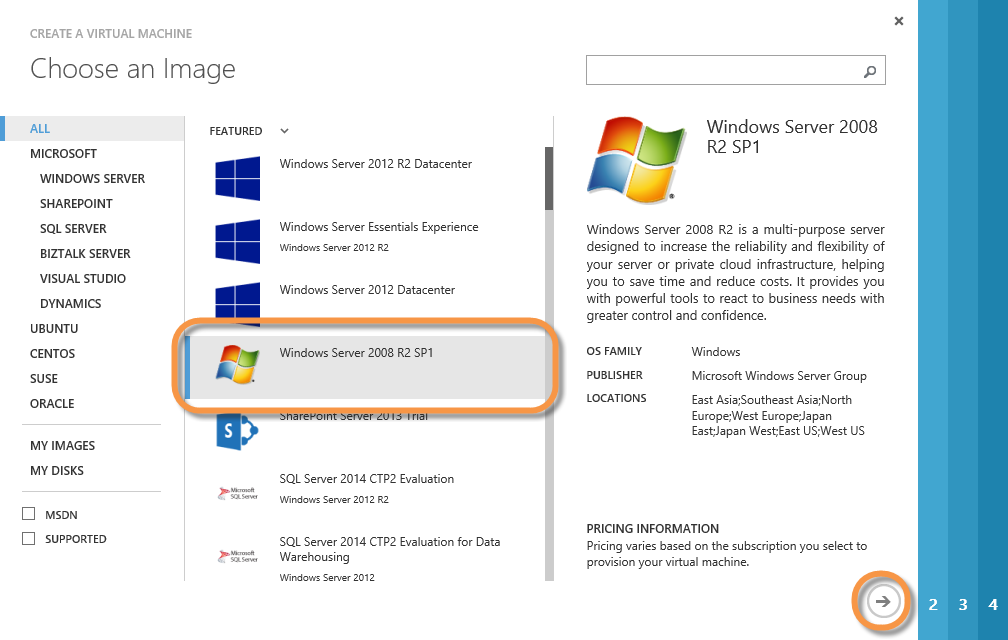
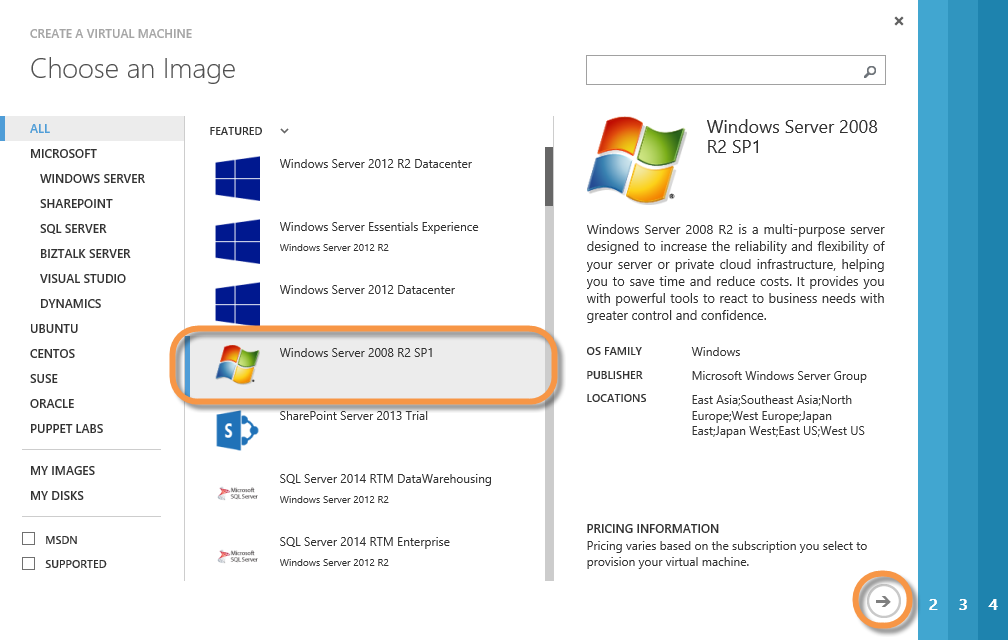
Revised for portal changes

diff --git a/Traditional/VMIntro/HOL.html b/Traditional/VMIntro/HOL.html
@@ -2,7 +2,7 @@
 <html>
 <head>
 <meta charset="utf-8" />
-<title>Markdown Preview</title>
+<title>Introduction to Windows Azure Virtual Machines</title>
 <style>
 body{font-family:helvetica, arial, freesans, clean, sans-serif;color:#333;line-height:1.6;font-size:14px}.markdown-body{line-height:1.6;font-size:14px}.markdown-body > *:first-child{margin-top:0 !important}.markdown-body > *:last-child{margin-bottom:0 !important}.markdown-body a.absent{color:#c00}.markdown-body h1{font-weight:700;-webkit-font-smoothing:antialiased;color:#000;font-size:28px;margin:20px 0 10px;padding:0}.markdown-body h2{font-weight:700;-webkit-font-smoothing:antialiased;color:#000;font-size:24px;border-bottom-color:#ccc;border-bottom-width:1px;border-bottom-style:solid;margin:20px 0 10px;padding:0}.markdown-body h3{font-weight:700;-webkit-font-smoothing:antialiased;font-size:18px;margin:20px 0 10px;padding:0}.markdown-body h4{font-weight:700;-webkit-font-smoothing:antialiased;font-size:16px;margin:20px 0 10px;padding:0}.markdown-body h5{font-weight:700;-webkit-font-smoothing:antialiased;font-size:14px;margin:20px 0 10px;padding:0}.markdown-body h6{font-weight:700;-webkit-font-smoothing:antialiased;color:#777;font-size:14px;margin:20px 0 10px;padding:0}.markdown-body blockquote{color:#777;border-left-color:#ddd;border-left-width:4px;border-left-style:solid;margin:15px 0;padding:0 15px}.markdown-body dl{margin:15px 0;padding:0}.markdown-body table{border-collapse:collapse;margin:15px 0;padding:0}.markdown-body pre{border-radius:3px;border:1px solid #ccc;line-height:19px;overflow:auto;font-size:13px;background-color:#f8f8f8;margin:15px 0;padding:6px 10px}.markdown-body li p.first{display:inline-block}.markdown-body dl dt{font-size:14px;font-style:italic;font-weight:700;margin:15px 0 5px;padding:0}.markdown-body dl dt:first-child{padding:0}.markdown-body dl dd{margin:0 0 15px;padding:0 15px}.markdown-body table tr{border-top-color:#ccc;border-top-width:1px;border-top-style:solid;background-color:#fff;margin:0;padding:0}.markdown-body table tr:nth-child(2n){background-color:#f8f8f8}.markdown-body img{max-width:100%}.markdown-body span.frame{overflow:hidden;display:block}.markdown-body span.frame > span{border:1px solid #ddd;width:auto;overflow:hidden;float:left;display:block;margin:13px 0 0;padding:7px}.markdown-body span.frame span img{float:left;display:block}.markdown-body span.frame span span{color:#333;clear:both;display:block;padding:5px 0 0}.markdown-body span.align-center > span{text-align:center;overflow:hidden;display:block;margin:13px auto 0}.markdown-body span.align-center span img{text-align:center;margin:0 auto}.markdown-body span.align-right > span{text-align:right;overflow:hidden;display:block;margin:13px 0 0}.markdown-body span.align-right span img{text-align:right;margin:0}.markdown-body span.float-left{overflow:hidden;margin-right:13px;float:left;display:block}.markdown-body span.float-left span{margin:13px 0 0}.markdown-body span.float-right{overflow:hidden;margin-left:13px;float:right;display:block}.markdown-body span.float-right > span{text-align:right;overflow:hidden;display:block;margin:13px auto 0}.markdown-body pre > code{border:currentColor;white-space:pre;margin:0;padding:0}.markdown-body .highlight pre{border-radius:3px;border:1px solid #ccc;line-height:19px;overflow:auto;font-size:13px;background-color:#f8f8f8;padding:6px 10px}.markdown-body p,.markdown-body li{margin:15px 0}.markdown-body ul,.markdown-body ol{padding-left:30px;margin:15px 0}.markdown-body > h2:first-child,.markdown-body > h1:first-child,.markdown-body > h1:first-child + h2{border:0 currentColor;padding-top:0;margin-top:0}.markdown-body > h3:first-child,.markdown-body > h4:first-child,.markdown-body > h5:first-child,.markdown-body > h6:first-child{padding-top:0;margin-top:0}.markdown-body h1 + p,.markdown-body h2 + p,.markdown-body h3 + p,.markdown-body h4 + p,.markdown-body h5 + p,.markdown-body h6 + p,.markdown-body ul li > :first-child,.markdown-body ol li > :first-child,.markdown-body dl dt > :first-child,.markdown-body dl dd > :first-child,.markdown-body blockquote > :first-child,.markdown-body table tr th > :first-child,.markdown-body table tr td > :first-child{margin-top:0}.markdown-body ul li > :last-child,.markdown-body ol li > :last-child,.markdown-body dl dt > :last-child,.markdown-body dl dd > :last-child,.markdown-body blockquote > :last-child,.markdown-body table tr th > :last-child,.markdown-body table tr td > :last-child{margin-bottom:0}.markdown-body table tr th,.markdown-body table tr td{border:1px solid #ccc;text-align:left;margin:0;padding:6px 13px}.markdown-body span.align-center,.markdown-body span.align-right{overflow:hidden;clear:both;display:block}.markdown-body code,.markdown-body tt{border-radius:3px;border:1px solid #eaeaea;white-space:nowrap;background-color:#f8f8f8;margin:0 2px;padding:0 5px}.markdown-body pre code,.markdown-body pre tt{border:currentColor;background-color:transparent}span.codelanguage{display:none}
 </style>
@@ -106,7 +106,8 @@ body{font-family:helvetica, arial, freesans, clean, sans-serif;color:#333;line-h
 <ul>
 <li>VERSION RELEASE DATE: <strong><em>Choose the latest date</em></strong></li>
 <li>VIRTUAL MACHINE NAME: <strong><em>sqlvm1</em></strong> (Use this name.  using a different name will cause issues later in the lab).</li>
-<li>SIZE: <strong><em>Small (1 core, 1.75 GB memory)</em></strong> (You don't need anything bigger for this lab)</li>
+<li>TIER: <strong><em>Standard</em></strong></li>
+<li>SIZE: <strong><em>A1 (1 core, 1.75 GB memory)</em></strong> (You don't need anything bigger for this lab)</li>
 <li>NEW USER NAME: <strong><em>CloudShop</em></strong></li>
 <li>NEW PASSWORD:  <strong><em>Azure$123</em></strong></li>
 </ul>
@@ -124,6 +125,7 @@ The name CloudShopDemo is used as a sample throughout this lab, but you will nee
 <li>REGION/AFFINITY GROUP/VIRTUAL NETWORK: <strong><em>Pick a region close to you</em></strong></li>
 <li>STORAGE ACCOUNT: <strong><em>Use an automatically generated storage account</em></strong></li>
 <li>AVAILABILITY SET: <strong><em>(None)</em></strong></li>
+<li>ENDPOINTS: <strong><em>Leave the default endpoints.</em></strong></li>
 </ul>
 
 <p><img src="images/1060vmconfig2.png?raw=true" alt="1060VMConfig2" title="Virtual Machine Configuration">
@@ -153,16 +155,16 @@ The name CloudShopDemo is used as a sample throughout this lab, but you will nee
 
 <p><img src="images/1090newvmfromgallery.png?raw=true" alt="1090NewVMFromGallery" title="New VM From Gallery">
 </p></li>
-<li><p>In the <strong>&quot;CREATE A VIRTUAL MACHINE&quot;</strong> wizard, on the <strong>&quot;Choose an Image&quot;</strong> page, select the <strong>&quot;Windows Server 2008 R2 SP1&quot;</strong> image and click the next (arrow) button to continue:</p>
-
-<p><img src="images/1100win2k8vmimage.png?raw=true" alt="1100Win2K8VMImage" title="Windows Server 2008 R2 SP1 Image">
+<li><p>In the <strong>&quot;CREATE A VIRTUAL MACHINE&quot;</strong> wizard, on the <strong>&quot;Choose an Image&quot;</strong> page, select the <strong>&quot;Windows Server 2008 R2 SP1&quot;</strong> image and click the next (arrow) button to continue:
+<img src="images/1100win2k8vmimage.png?raw=true" alt="1100Win2K8VMImage" title="Windows Server 2008 R2 SP1 Image">
 </p></li>
 <li><p>On the first <strong>&quot;Virtual machine configuration&quot;</strong> page:</p>
 
 <ul>
 <li>VERSION RELEASE DATE: <strong><em>Choose the latest date</em></strong></li>
 <li>VIRTUAL MACHINE NAME: <strong><em>iisvm1</em></strong> for the first vm, <strong><em>iisvm2</em></strong> for the second</li>
-<li>SIZE: <strong><em>Small 1 core, 1.75 GB memory)</em></strong></li>
+<li>TIER: <strong><em>Standard</em></strong></li>
+<li>SIZE: <strong><em>A1 (1 core, 1.75 GB memory)</em></strong></li>
 <li>NEW USER NAME: <strong><em>CloudShop</em></strong> (or the same name you used for <strong><em>sqlvm1</em></strong>)</li>
 <li>NEW PASSWORD: <strong><em>Azure$123</em></strong> (or the same password you used for <strong><em>sqlvm1</em></strong>)</li>
 </ul>
@@ -182,12 +184,15 @@ The name CloudShopDemo is used as a sample throughout this lab, but you will nee
 
 <p><img src="images/1130vmconfig3.png?raw=true" alt="1130VMConfig3" title="Virtual Machine Configuration Page 3">
 </p></li>
-<li><p>After creating <strong>iisvm1</strong> (and waiting 1-2 minutes to continue) then repeat the steps above to create <strong>iisvm2</strong></p></li>
+<li><p>After creating <strong>iisvm1</strong> (and waiting 1-2 minutes to continue) then 
+<strong>repeat the steps above to create <em>iisvm2</em></strong></p></li>
 <li><p>Once all three virtual machines have been created, <strong>wait until at least the sqlvm1 status reads &quot;Running&quot;</strong> before proceeding to the next task.  <strong>This could take anywhere from 10-30 minutes</strong>.  Now is a good time to take a break! </p>
 
 <p><img src="images/1140vmsrunning.png?raw=true" alt="1140VMsRunning" title="Virtual Machines Running">
 </p></li>
 </ol>
+
+<hr>
 
 <p><a name="Ex2"></a></p>
 
@@ -214,7 +219,7 @@ The name CloudShopDemo is used as a sample throughout this lab, but you will nee
 <ol>
 <li><p>In the Windows Azure Management Portal, on the &quot;VIRTUAL MACHINES&quot; page, click on the name of the &quot;sqlvm1&quot; virtual machine, then switch to it's DASHBOARD page. Scroll to the bottom to see that there is only a single drive attached to the VM.</p>
 
-<p><img src="images/2012sqlvm1drive.png?raw=true" alt="2012SQLVM1Drive" title="SQLVM1 Drive">
+<p><img src="images/2013sqlvm1drive2.png?raw=true" alt="2013SQLVM1Drive2" title="SQLVM1 Drives">
 </p></li>
 <li><p>Click the <strong>&quot;ATTACH&quot;</strong> button along the bottom, and select <strong>&quot;Attach empty disk&quot;</strong>:</p>
 
@@ -302,7 +307,7 @@ The name CloudShopDemo is used as a sample throughout this lab, but you will nee
 
 <p><img src="images/2170newlyformatteddrives.png?raw=true" alt="2170NewlyFormattedDrives" title="Newly Formatted Drives">
 </p></li>
-<li><p>In the open the new drives in Windows Explorer and create the following folders.  Later, we will configure SQL Server to use these new folders rather than the default folders on the C: Drive:</p>
+<li><p>In the open the new drives in Windows Explorer and <strong><em>create the following folders</em></strong>.  Later, we will configure SQL Server to use these new folders rather than the default folders on the C: Drive:</p>
 
 <ul>
 <li><strong>F:\Data</strong></li>
@@ -337,7 +342,7 @@ The name CloudShopDemo is used as a sample throughout this lab, but you will nee
 
 <p><img src="images/2220startssms.png?raw=true" alt="2220StartSSMS" title="Start SSMS">
 </p></li>
-<li><p>When prompted, connect to the SQLVM1 instance:</p>
+<li><p>When prompted, connect to the <strong>SQLVM1</strong> instance:</p>
 
 <p><img src="images/2230connecttosqlmv1.png?raw=true" alt="2230ConnectToSQLMV1" title="Connect to SQLVM1">
 </p></li>
@@ -439,7 +444,7 @@ The name CloudShopDemo is used as a sample throughout this lab, but you will nee
 
 <p><img src="images/2360cloudshoplogin.png?raw=true" alt="2360CloudShopLogin" title="CloudShop Login">
 </p></li>
-<li><p>Make sure that you clicked <strong>&quot;OK&quot;</strong> above to create the new login, then immediately double click on the new login to re-open the Login properties.  Then, switch to the <strong>&quot;User Mapping&quot;</strong> page:</p>
+<li><p>Make sure that you clicked <strong>&quot;OK&quot;</strong> above to create the new <strong>CloudShop</strong> (<strong>Not</strong> the <strong>SQLVM1\CloudShop</strong> login, those are actually different logins) login, then immediately double click on the new login to re-open the Login properties.  Then, switch to the <strong>&quot;User Mapping&quot;</strong> page:</p>
 
 <ul>
 <li><strong>Turn on</strong> the checkbox next to the <strong>AdventureWorks2012</strong> database</li>
@@ -447,7 +452,7 @@ The name CloudShopDemo is used as a sample throughout this lab, but you will nee
 <li>Click <strong>&quot;OK&quot;</strong></li>
 </ul>
 
-<p><img src="images/2270mapuser.png?raw=true" alt="2370MapUser" title="Map User">
+<p><img src="images/2370mapuser.png?raw=true" alt="2370MapUser" title="Map User">
 </p>
 <blockquote>
 <p><strong>Note:</strong> There is a glitch in SQL Server Management Studio right now where it can't assign database roles to the user until the login exists.  That is why you had to exit the login properties and re-enter it again to map the login to a user account in the database.</p>
@@ -497,6 +502,8 @@ The name CloudShopDemo is used as a sample throughout this lab, but you will nee
 <li><p>You can close <strong>&quot;Sever Manager&quot;</strong> when you are done.</p></li>
 <li><p>You can close the Remote Desktop Connection to SQLVM1 when you are done if you wish, but make sure to just disconnect, don't shut down the SQLVM1 server.  </p></li>
 </ol>
+
+<hr>
 
 <p><a name="Ex3"></a></p>
 
@@ -659,11 +666,11 @@ The name CloudShopDemo is used as a sample throughout this lab, but you will nee
 
 <p><img src="images/3280editconnectionstrings.png?raw=true" alt="3280EditConnectionStrings" title="Edit the Connection Strings">
 </p></li>
-<li><p>Edit <strong>both</strong> the <strong>&quot;AdventureWorksEntities&quot;</strong> and <strong>&quot;DefaultConnection&quot;</strong> connection strings.  Replace the <strong>&quot;[ENTER YOUR SQL SERVER NAME]&quot;</strong> placeholders (including the square brackets) with <strong><em>sqlvm1</em></strong>  (or the name you gave to your SQL VM if you used something different).  Click <strong>&quot;OK&quot;</strong> When you are done.</p>
+<li><p>Edit <strong>both</strong> the <strong>&quot;AdventureWorksEntities&quot;</strong> and <strong>&quot;DefaultConnection&quot;</strong> connection strings (The <strong>&quot;LocalSqlServer&quot;</strong> connection isn't used by the web site).  Replace the <strong>&quot;[ENTER YOUR SQL SERVER NAME]&quot;</strong> placeholders (including the square brackets) with <strong><em>sqlvm1</em></strong>  (or the name you gave to your SQL VM if you used something different).  Click <strong>&quot;OK&quot;</strong> When you are done.</p>
 
 <p><img src="images/3290entersqlvm1name.png?raw=true" alt="3290EnterSQLVM1Name" title="Enter SQLVM1 Server Name">
 </p></li>
-<li><p>Close the *<em>&quot;Internet Information Services (IIS) Manager</em>&quot;&quot; window when you are done. </p></li>
+<li><p>Close the <strong>&quot;Internet Information Services (IIS) Manager&quot;</strong> window when you are done. </p></li>
 <li><p>You can test the website on the VM itself by opening IE on the web server VM and navigating to http://localhost/CloudShop.  It should load successfully.  Close the browser when you are done.</p>
 
 <p><img src="images/3300testingcloudshoponwebvm.png?raw=true" alt="3300TestingCloudShopOnWebVM" title="TestingCloudShoponWebVM">

diff --git a/Scenario/0-OPTIONAL-SetupDevVM/HOL.html b/Scenario/0-OPTIONAL-SetupDevVM/HOL.html
@@ -1,8 +1,8 @@
-<!DOCTYPE html>
+<!DOCTYPE html>
 <html>
 <head>
 <meta charset="utf-8" />
-<title>Markdown Preview</title>
+<title>Setting up an Azure Virtual Machine For Developers with Visual Studio 2013 Ultimate and SQL Server 2012 Express</title>
 <style>
 body{font-family:helvetica, arial, freesans, clean, sans-serif;color:#333;line-height:1.6;font-size:14px}.markdown-body{line-height:1.6;font-size:14px}.markdown-body > *:first-child{margin-top:0 !important}.markdown-body > *:last-child{margin-bottom:0 !important}.markdown-body a.absent{color:#c00}.markdown-body h1{font-weight:700;-webkit-font-smoothing:antialiased;color:#000;font-size:28px;margin:20px 0 10px;padding:0}.markdown-body h2{font-weight:700;-webkit-font-smoothing:antialiased;color:#000;font-size:24px;border-bottom-color:#ccc;border-bottom-width:1px;border-bottom-style:solid;margin:20px 0 10px;padding:0}.markdown-body h3{font-weight:700;-webkit-font-smoothing:antialiased;font-size:18px;margin:20px 0 10px;padding:0}.markdown-body h4{font-weight:700;-webkit-font-smoothing:antialiased;font-size:16px;margin:20px 0 10px;padding:0}.markdown-body h5{font-weight:700;-webkit-font-smoothing:antialiased;font-size:14px;margin:20px 0 10px;padding:0}.markdown-body h6{font-weight:700;-webkit-font-smoothing:antialiased;color:#777;font-size:14px;margin:20px 0 10px;padding:0}.markdown-body blockquote{color:#777;border-left-color:#ddd;border-left-width:4px;border-left-style:solid;margin:15px 0;padding:0 15px}.markdown-body dl{margin:15px 0;padding:0}.markdown-body table{border-collapse:collapse;margin:15px 0;padding:0}.markdown-body pre{border-radius:3px;border:1px solid #ccc;line-height:19px;overflow:auto;font-size:13px;background-color:#f8f8f8;margin:15px 0;padding:6px 10px}.markdown-body li p.first{display:inline-block}.markdown-body dl dt{font-size:14px;font-style:italic;font-weight:700;margin:15px 0 5px;padding:0}.markdown-body dl dt:first-child{padding:0}.markdown-body dl dd{margin:0 0 15px;padding:0 15px}.markdown-body table tr{border-top-color:#ccc;border-top-width:1px;border-top-style:solid;background-color:#fff;margin:0;padding:0}.markdown-body table tr:nth-child(2n){background-color:#f8f8f8}.markdown-body img{max-width:100%}.markdown-body span.frame{overflow:hidden;display:block}.markdown-body span.frame > span{border:1px solid #ddd;width:auto;overflow:hidden;float:left;display:block;margin:13px 0 0;padding:7px}.markdown-body span.frame span img{float:left;display:block}.markdown-body span.frame span span{color:#333;clear:both;display:block;padding:5px 0 0}.markdown-body span.align-center > span{text-align:center;overflow:hidden;display:block;margin:13px auto 0}.markdown-body span.align-center span img{text-align:center;margin:0 auto}.markdown-body span.align-right > span{text-align:right;overflow:hidden;display:block;margin:13px 0 0}.markdown-body span.align-right span img{text-align:right;margin:0}.markdown-body span.float-left{overflow:hidden;margin-right:13px;float:left;display:block}.markdown-body span.float-left span{margin:13px 0 0}.markdown-body span.float-right{overflow:hidden;margin-left:13px;float:right;display:block}.markdown-body span.float-right > span{text-align:right;overflow:hidden;display:block;margin:13px auto 0}.markdown-body pre > code{border:currentColor;white-space:pre;margin:0;padding:0}.markdown-body .highlight pre{border-radius:3px;border:1px solid #ccc;line-height:19px;overflow:auto;font-size:13px;background-color:#f8f8f8;padding:6px 10px}.markdown-body p,.markdown-body li{margin:15px 0}.markdown-body ul,.markdown-body ol{padding-left:30px;margin:15px 0}.markdown-body > h2:first-child,.markdown-body > h1:first-child,.markdown-body > h1:first-child + h2{border:0 currentColor;padding-top:0;margin-top:0}.markdown-body > h3:first-child,.markdown-body > h4:first-child,.markdown-body > h5:first-child,.markdown-body > h6:first-child{padding-top:0;margin-top:0}.markdown-body h1 + p,.markdown-body h2 + p,.markdown-body h3 + p,.markdown-body h4 + p,.markdown-body h5 + p,.markdown-body h6 + p,.markdown-body ul li > :first-child,.markdown-body ol li > :first-child,.markdown-body dl dt > :first-child,.markdown-body dl dd > :first-child,.markdown-body blockquote > :first-child,.markdown-body table tr th > :first-child,.markdown-body table tr td > :first-child{margin-top:0}.markdown-body ul li > :last-child,.markdown-body ol li > :last-child,.markdown-body dl dt > :last-child,.markdown-body dl dd > :last-child,.markdown-body blockquote > :last-child,.markdown-body table tr th > :last-child,.markdown-body table tr td > :last-child{margin-bottom:0}.markdown-body table tr th,.markdown-body table tr td{border:1px solid #ccc;text-align:left;margin:0;padding:6px 13px}.markdown-body span.align-center,.markdown-body span.align-right{overflow:hidden;clear:both;display:block}.markdown-body code,.markdown-body tt{border-radius:3px;border:1px solid #eaeaea;white-space:nowrap;background-color:#f8f8f8;margin:0 2px;padding:0 5px}.markdown-body pre code,.markdown-body pre tt{border:currentColor;background-color:transparent}span.codelanguage{display:none}
 </style>

diff --git a/Traditional/VMIntro/HOL.md b/Traditional/VMIntro/HOL.md
@@ -76,7 +76,8 @@ The highlighted portion of the following diagram shows what you will configure i
 1. On the "Virtual machine configuration" page:
 	- VERSION RELEASE DATE: ***Choose the latest date***
 	- VIRTUAL MACHINE NAME: ***sqlvm1*** (Use this name.  using a different name will cause issues later in the lab).
-	- SIZE: ***Small (1 core, 1.75 GB memory)*** (You don't need anything bigger for this lab)
+	- TIER: ***Standard***
+	- SIZE: ***A1 (1 core, 1.75 GB memory)*** (You don't need anything bigger for this lab)
 	- NEW USER NAME: ***CloudShop***
 	- NEW PASSWORD:  ***Azure$123***
 
@@ -91,12 +92,14 @@ The highlighted portion of the following diagram shows what you will configure i
 	- REGION/AFFINITY GROUP/VIRTUAL NETWORK: ***Pick a region close to you***
 	- STORAGE ACCOUNT: ***Use an automatically generated storage account***
 	- AVAILABILITY SET: ***(None)***
+	- ENDPOINTS: ***Leave the default endpoints.***
 
 	![1060VMConfig2](images/1060vmconfig2.png?raw=true "Virtual Machine Configuration")
 
 1. On the third final **"Virtual machine configuration"** page, accept the default values and click the "Check Mark" button in the lower right corner to complete the wizard.
 
 	![1070VMConfig3](images/1070vmconfig3.png?raw=true "Virtual Machine Configuration Page 3")
+
 
 	> **Note:** The Virtual Machine already has endpoints for Remote Desktop connections as well as for remote PowerShell scripts.  
 
@@ -116,13 +119,13 @@ In this task, you will create BOTH of the Web Server Virtual Machines, **iisvm1*
 	![1090NewVMFromGallery](images/1090newvmfromgallery.png?raw=true "New VM From Gallery")
 
 1. In the **"CREATE A VIRTUAL MACHINE"** wizard, on the **"Choose an Image"** page, select the **"Windows Server 2008 R2 SP1"** image and click the next (arrow) button to continue:
-
 	![1100Win2K8VMImage](images/1100win2k8vmimage.png?raw=true "Windows Server 2008 R2 SP1 Image")
 
 1. On the first **"Virtual machine configuration"** page:
 	- VERSION RELEASE DATE: ***Choose the latest date***
 	- VIRTUAL MACHINE NAME: ***iisvm1*** for the first vm, ***iisvm2*** for the second
-	- SIZE: ***Small 1 core, 1.75 GB memory)***
+	- TIER: ***Standard***
+	- SIZE: ***A1 (1 core, 1.75 GB memory)***
 	- NEW USER NAME: ***CloudShop*** (or the same name you used for ***sqlvm1***)
 	- NEW PASSWORD:	***Azure$123*** (or the same password you used for ***sqlvm1***)
 
@@ -134,15 +137,19 @@ In this task, you will create BOTH of the Web Server Virtual Machines, **iisvm1*
 
 	![1120VMConfig2](images/1120vmconfig2.png?raw=true "Virtual Machine Configuration Page 2")
 
+
 1. On the third and final **"Virtual machine configuration"** page, leave the default values and click the "Check Mark" button in the lower right corner to complete the wizard.  
 
 	![1130VMConfig3](images/1130vmconfig3.png?raw=true "Virtual Machine Configuration Page 3")
 
-1. After creating **iisvm1** (and waiting 1-2 minutes to continue) then repeat the steps above to create **iisvm2**
+1. After creating **iisvm1** (and waiting 1-2 minutes to continue) then 
+**repeat the steps above to create _iisvm2_**
 
 1. Once all three virtual machines have been created, **wait until at least the sqlvm1 status reads "Running"** before proceeding to the next task.  **This could take anywhere from 10-30 minutes**.  Now is a good time to take a break! 
 
 	![1140VMsRunning](images/1140vmsrunning.png?raw=true "Virtual Machines Running")
+
+---
 
 <a name="Ex2"></a>
 ### Exercise 2: Configure the SQL Server Virtual Machine and Database ###
@@ -163,11 +170,12 @@ The highlighted portion of the following diagram shows what you will configure i
 
 1. In the Windows Azure Management Portal, on the "VIRTUAL MACHINES" page, click on the name of the "sqlvm1" virtual machine, then switch to it's DASHBOARD page. Scroll to the bottom to see that there is only a single drive attached to the VM.
 
-	![2012SQLVM1Drive](images/2012sqlvm1drive.png?raw=true "SQLVM1 Drive")
+	![2013SQLVM1Drive2](images/2013sqlvm1drive2.png?raw=true "SQLVM1 Drives")
 
 1. Click the **"ATTACH"** button along the bottom, and select **"Attach empty disk"**:
 
 	![2014AttachEmptyDisk](images/2014attachemptydisk.png?raw=true "Attach Empty Disk")
+
 
 1. In the "Attach an empty disk..." window, you don't need to change anything except the size.  Enter **50** for the **SIZE (GB)**:
 
@@ -251,7 +259,7 @@ The highlighted portion of the following diagram shows what you will configure i
 
 	![2170NewlyFormattedDrives](images/2170newlyformatteddrives.png?raw=true "Newly Formatted Drives")
 
-1. In the open the new drives in Windows Explorer and create the following folders.  Later, we will configure SQL Server to use these new folders rather than the default folders on the C: Drive:
+1. In the open the new drives in Windows Explorer and ***create the following folders***.  Later, we will configure SQL Server to use these new folders rather than the default folders on the C: Drive:
 	
 	- **F:\Data**
 	- **G:\Logs**
@@ -280,7 +288,7 @@ In this task, we'll download the AdventureWorks2012 Database file from CodePlex 
 
 	![2220StartSSMS](images/2220startssms.png?raw=true "Start SSMS")
 
-1. When prompted, connect to the SQLVM1 instance:
+1. When prompted, connect to the **SQLVM1** instance:
 
 	![2230ConnectToSQLMV1](images/2230connecttosqlmv1.png?raw=true "Connect to SQLVM1")
 
@@ -377,13 +385,14 @@ The websites are pre-configured to connect to the SQL Server instance using a SQ
 
 	![2360CloudShopLogin](images/2360cloudshoplogin.png?raw=true "CloudShop Login")
 
-1. Make sure that you clicked **"OK"** above to create the new login, then immediately double click on the new login to re-open the Login properties.  Then, switch to the **"User Mapping"** page:
+1. Make sure that you clicked **"OK"** above to create the new **CloudShop** (**Not** the **SQLVM1\CloudShop** login, those are actually different logins) login, then immediately double click on the new login to re-open the Login properties.  Then, switch to the **"User Mapping"** page:
 
 	- **Turn on** the checkbox next to the **AdventureWorks2012** database
 	- **Turn on** the checkbox next to the **db_owner** role
 	- Click **"OK"**
 
-	![2370MapUser](images/2270mapuser.png?raw=true "Map User")
+
+	![2370MapUser](images/2370mapuser.png?raw=true "Map User")
 
 	> **Note:** There is a glitch in SQL Server Management Studio right now where it can't assign database roles to the user until the login exists.  That is why you had to exit the login properties and re-enter it again to map the login to a user account in the database.
 
@@ -429,6 +438,8 @@ The last step we need to tak on the SQL Server is to open 1433 in the Windows Fi
 1. You can close **"Sever Manager"** when you are done.
 
 1. You can close the Remote Desktop Connection to SQLVM1 when you are done if you wish, but make sure to just disconnect, don't shut down the SQLVM1 server.  
+
+---
 
 <a name="Ex3"></a>
 ### Exercise 3: Configure the Web Server Virtual Machines and Web Sites ###
@@ -584,11 +595,11 @@ The following steps will take place back on your development workstation.
 
 	![3280EditConnectionStrings](images/3280editconnectionstrings.png?raw=true "Edit the Connection Strings")
 
-1. Edit **both** the **"AdventureWorksEntities"** and **"DefaultConnection"** connection strings.  Replace the **"[ENTER YOUR SQL SERVER NAME]"** placeholders (including the square brackets) with ***sqlvm1***  (or the name you gave to your SQL VM if you used something different).  Click **"OK"** When you are done.
+1. Edit **both** the **"AdventureWorksEntities"** and **"DefaultConnection"** connection strings (The **"LocalSqlServer"** connection isn't used by the web site).  Replace the **"[ENTER YOUR SQL SERVER NAME]"** placeholders (including the square brackets) with ***sqlvm1***  (or the name you gave to your SQL VM if you used something different).  Click **"OK"** When you are done.
 
 	![3290EnterSQLVM1Name](images/3290entersqlvm1name.png?raw=true "Enter SQLVM1 Server Name")
 
-1. Close the **"Internet Information Services (IIS) Manager*"" window when you are done. 
+1. Close the **"Internet Information Services (IIS) Manager"** window when you are done. 
 
 1. You can test the website on the VM itself by opening IE on the web server VM and navigating to http://localhost/CloudShop.  It should load successfully.  Close the browser when you are done.
 
